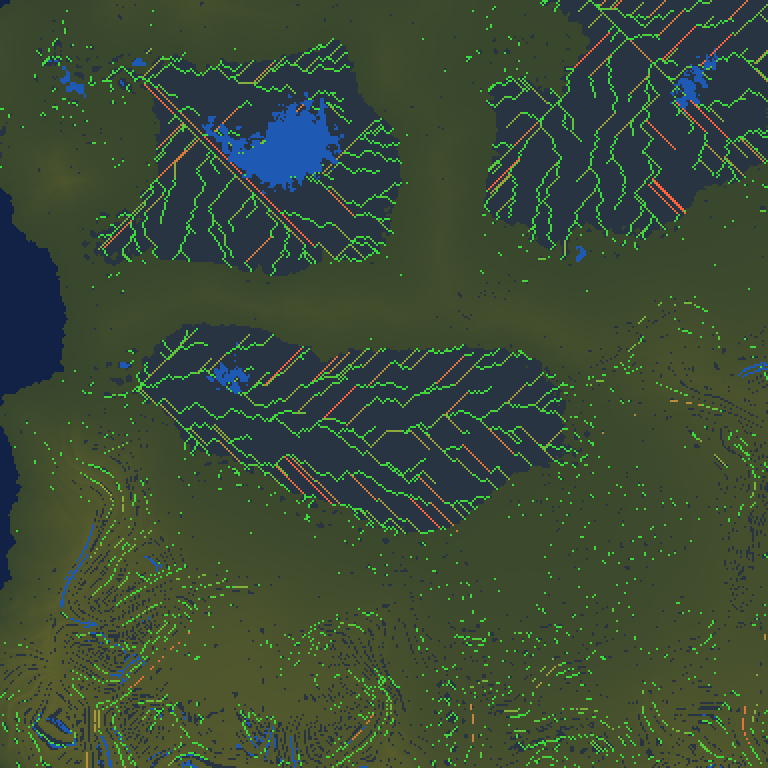
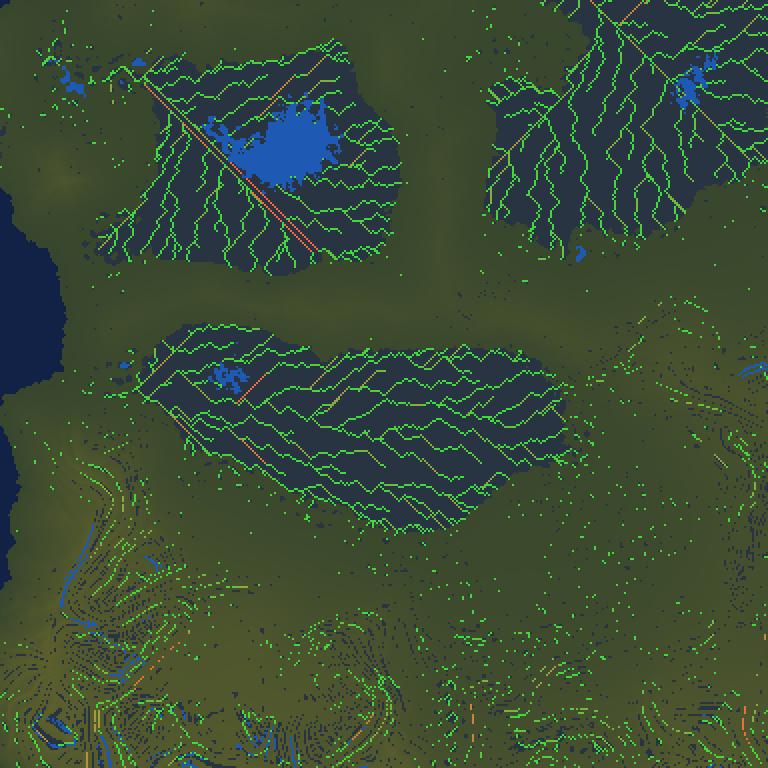
FEAT : fix peignes des grands plats - frequence relevee (l octave basse REFUTEE)
Le diagnostic du residu a localise 28% de peignes diagonaux sur les GRANDS plats.
Le brief proposait une octave BASSE frequence (variation a l echelle du grand
plat). Mesure : REFUTE. Une composante basse frequence = une pente lisse a grande
echelle -> les rivieres la descendent tout droit -> peignes EMPIRENT (straightness
grands plats 59% -> 72%, runs 17+ 6% -> 33%).

Ce que la donnee disait : pour casser un long run droit en escalier court, le
bruit doit basculer le choix lateral D8 plus SOUVENT -> frequence plus HAUTE
(longueur d onde plus courte), l inverse de l hypothese.

Fix : frequency 0.07 -> 0.17 (lambda ~14 -> 6 cellules), amplitude inchangee
(0.45, sous la borne anti-pit). Machinerie multi-echelle (low_frequency/low_mix)
retiree - elle ne servait pas. Une seule manette : la frequence.

Mesure (42, 2026) lambda14 -> lambda6 : runs longs (9+) 28-29% -> 9-10% ; runs
17+ 5-6% -> 1% ; straightness grands plats 57-59% -> 48% ; petits plats 34%
inchanges ; straightness-plats globale OFF->ON 60->44% -> 60->38%.

Visuel (flat_tracing/seed02026_residual_runlen.png) : traInees diagonales rouges
dissoutes -> reseau quasi entierement vert dendritique. Petits plats inchanges.
Garde-fous : aire de lacs 0.16% = 0.16% (la frequence ne touche pas l amplitude/
la borne -> pas de pit), endorheiques 113 ~ 111, reseau connecte. Gated (None
byte-identique), pli dans la cle de cache via la config. Lib verte (472).
[…]

Changed region(s): [[0.1875, 0.4375, 0.75, 0.6875], [0.625, 0.0, 1.0, 0.3438], [0.125, 0.0625, 0.5312, 0.3438]]

diff --git a/crates/ymir-core/src/terrain/flow.rs b/crates/ymir-core/src/terrain/flow.rs
@@ -52,8 +52,18 @@ impl Default for FlowConfig {
 /// still strictly lower after the noise, so drainage is mathematically guaranteed
 /// (no spurious pit, network stays connected). Within that bound the noise
 /// dominates the lateral tie-break → the river meanders. `frequency` (cells⁻¹)
-/// sets the meander wavelength — the main visual knob.
+/// sets the wavelength.
+///
+/// FREQUENCY vs the LARGE-FLAT combs (#fix A suite). The residual diagonal combs
+/// sit on the LARGE flats: there the noise must flip the D8 lateral choice OFTEN
+/// to break a long straight run into a short staircase. Counter-intuitively a LOW
+/// frequency makes it WORSE (a smooth large-scale tilt = a long straight descent,
+/// measured: large-flat straightness 59 %→72 %); a HIGHER frequency (shorter
+/// wavelength) flips the choice more often → long combs collapse into short
+/// staircases (λ≈14→6: large-flat 59 %→48 %, 17+ runs 6 %→1 %). So `frequency` is
+/// the lever, raised, not a low-frequency octave.
 #[derive(Debug, Clone, Serialize, Deserialize)]
+#[serde(default)]
 pub struct FlatPerturbation {
     pub seed: u32,
     pub amplitude: f32,
@@ -63,9 +73,9 @@ pub struct FlatPerturbation {
 
 impl Default for FlatPerturbation {
     fn default() -> Self {
-        // 0.45 of the G-M step (just under the 0.5 no-pit bound → strong wander);
-        // wavelength ≈ 14 cells.
-        Self { seed: 0xF1A7_5EED, amplitude: 0.45, frequency: 0.07, octaves: 4 }
+        // amplitude 0.45 of the G-M step (just under the 0.5 no-pit bound);
+        // frequency 0.17 (λ≈6) — high enough to collapse the large-flat combs.
+        Self { seed: 0xF1A7_5EED, amplitude: 0.45, frequency: 0.17, octaves: 4 }
     }
 }
 

diff --git a/docs/reports/c1_continental_buoyancy/closure_morphology/river_routing_audit/VERDICT.md b/docs/reports/c1_continental_buoyancy/closure_morphology/river_routing_audit/VERDICT.md
@@ -202,3 +202,44 @@ et par DÉBIT, + crops colorés par longueur de run (vert = run court, rouge = r
 
 Donc : **réglage de la perturbation d'abord** (les peignes des grands plats), **D∞ ensuite si
 nécessaire** (l'escalier diffus). Diagnostic seulement — le fix suit.
+
+---
+
+## FIX peignes appliqué — la FRÉQUENCE relevée (pas une octave basse)
+
+**Hypothèse de départ (le brief)** : une octave BASSE fréquence (λ ~ taille des grands plats)
+donnerait au grand plat une variation à son échelle. **RÉFUTÉE par la mesure.** Une composante
+basse fréquence est une **pente lisse à grande échelle** → les rivières la descendent tout droit
+sur une longue distance → les peignes EMPIRENT : straightness grands plats 59 % → **72 %**, runs de
+17+ pas 6 % → 33 % (`seed02026_residual_runlen.png` de cet essai : traînées diagonales plus longues).
+
+**Ce que la donnée disait** : pour casser un long run droit en escalier court, le bruit doit
+**basculer le choix latéral D8 plus SOUVENT** → il faut une fréquence **plus HAUTE** (longueur
+d'onde plus courte), l'inverse de l'hypothèse. La basse fréquence flippe rarement (lisse) → runs
+longs ; la haute fréquence flippe souvent → runs courts (escalier = acceptable).
+
+**Le fix** : `frequency` 0.07 → **0.17** (λ ≈ 14 → 6 cellules), `amplitude` inchangée (0.45, sous la
+borne anti-pit). Pas de composante basse fréquence (la machinerie multi-échelle a été retirée — elle
+ne servait pas). Une seule manette : la fréquence, relevée.
+
+**Mesure (seeds 42 / 2026), avant (λ14) → après (λ6)** :
+
+| | λ14 (0.07) | λ6 (0.17) |
+|---|---|---|
+| runs LONGS (9+, peignes) | 28-29 % | **9-10 %** |
+| runs 17+ (longues droites) | 5-6 % | **1 %** |
+| straightness GRANDS plats | 57-59 % | **48 %** |
+| straightness petits plats | 34 % | 34 % (inchangé) |
+| straightness-plats globale OFF→ON | 60 → 44 % | 60 → **38 %** |
+
+**Visuel** (`flat_tracing/seed02026_residual_runlen.png`) : les traînées diagonales rouges (peignes)
+sont **dissoutes** — réseau quasi entièrement vert dendritique. Les petits plats sont inchangés
+(la haute fréquence marche toujours). **Garde-fous** : aire de lacs 0.16 % = 0.16 % (pas de pit —
+la fréquence ne touche pas l'amplitude/la borne), endorhéiques 113 ≈ 111, réseau connecté. Gated
+(None byte-identique), plié dans la clé de cache via la config. Lib verte (472).
+
+**Jugement de l'escalier diffus restant** : une fois les peignes partis, le résidu est l'escalier D8
+court (90-91 % des pas droits en runs 2-8), qui rend un tracé **dendritique d'aspect naturel** (crops).
+Les grands plats à 48 % et les petits à 34 % sont du même ordre — le motif n'est plus pathologique.
+→ **On s'arrête là. D∞ reste en RÉSERVE** (chantier de fond : flux fractionnaire, touche
+`compute_accumulation`/`extract_rivers`) — à n'engager que si l'escalier est un jour jugé gênant.
